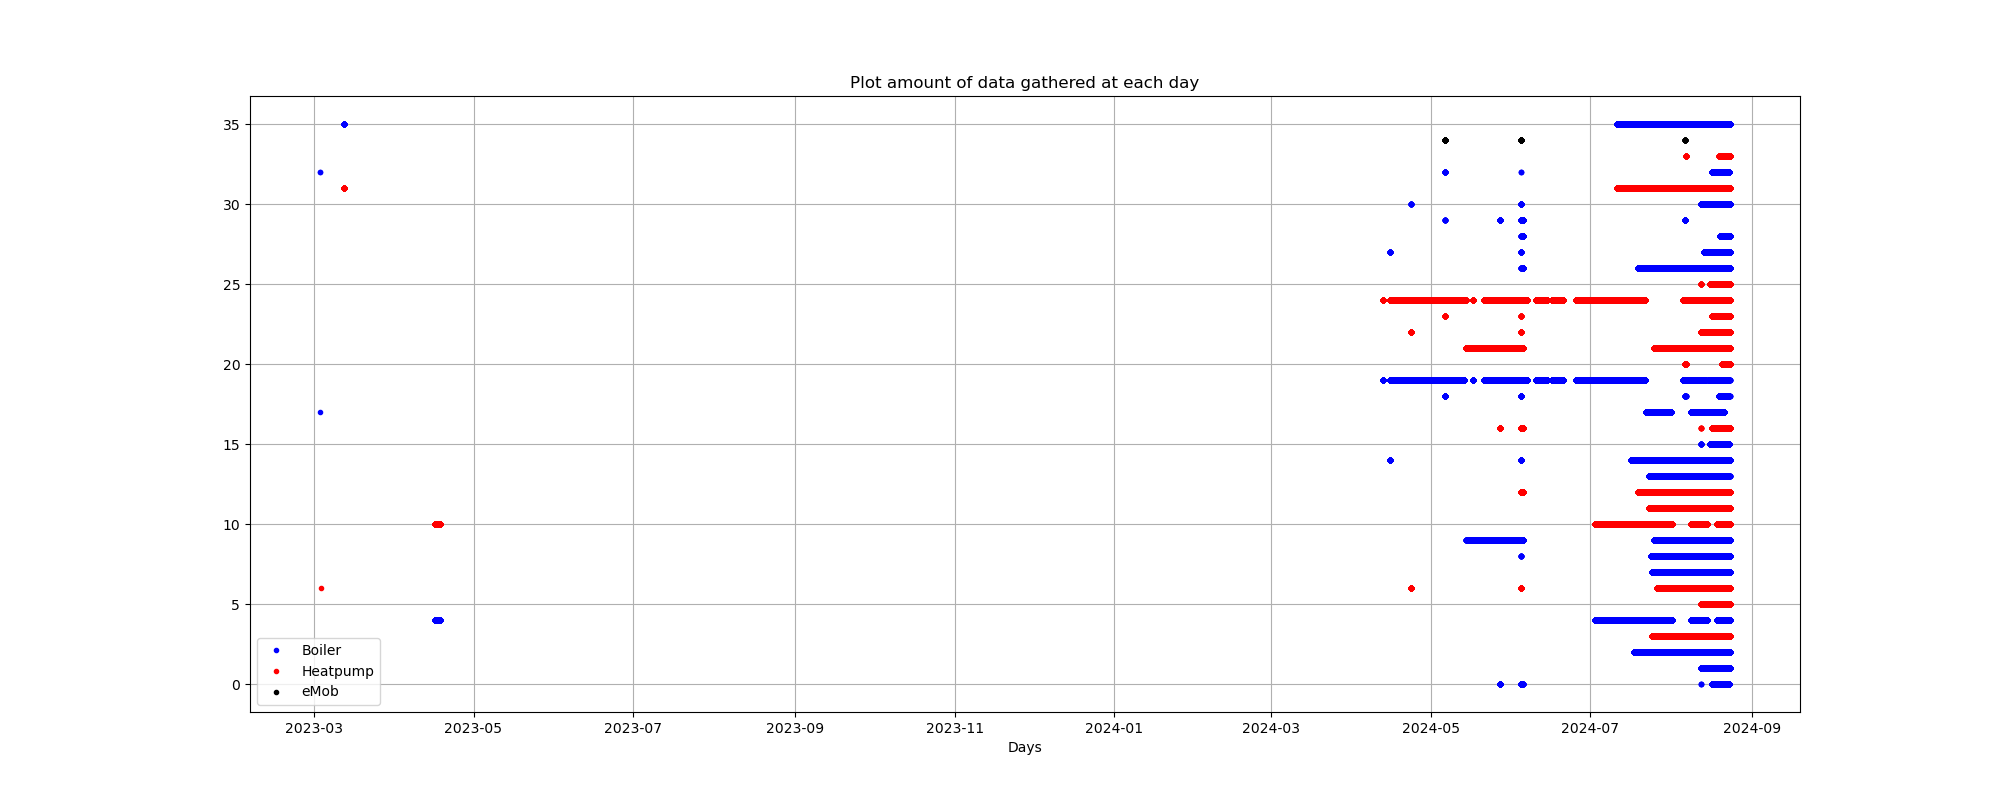
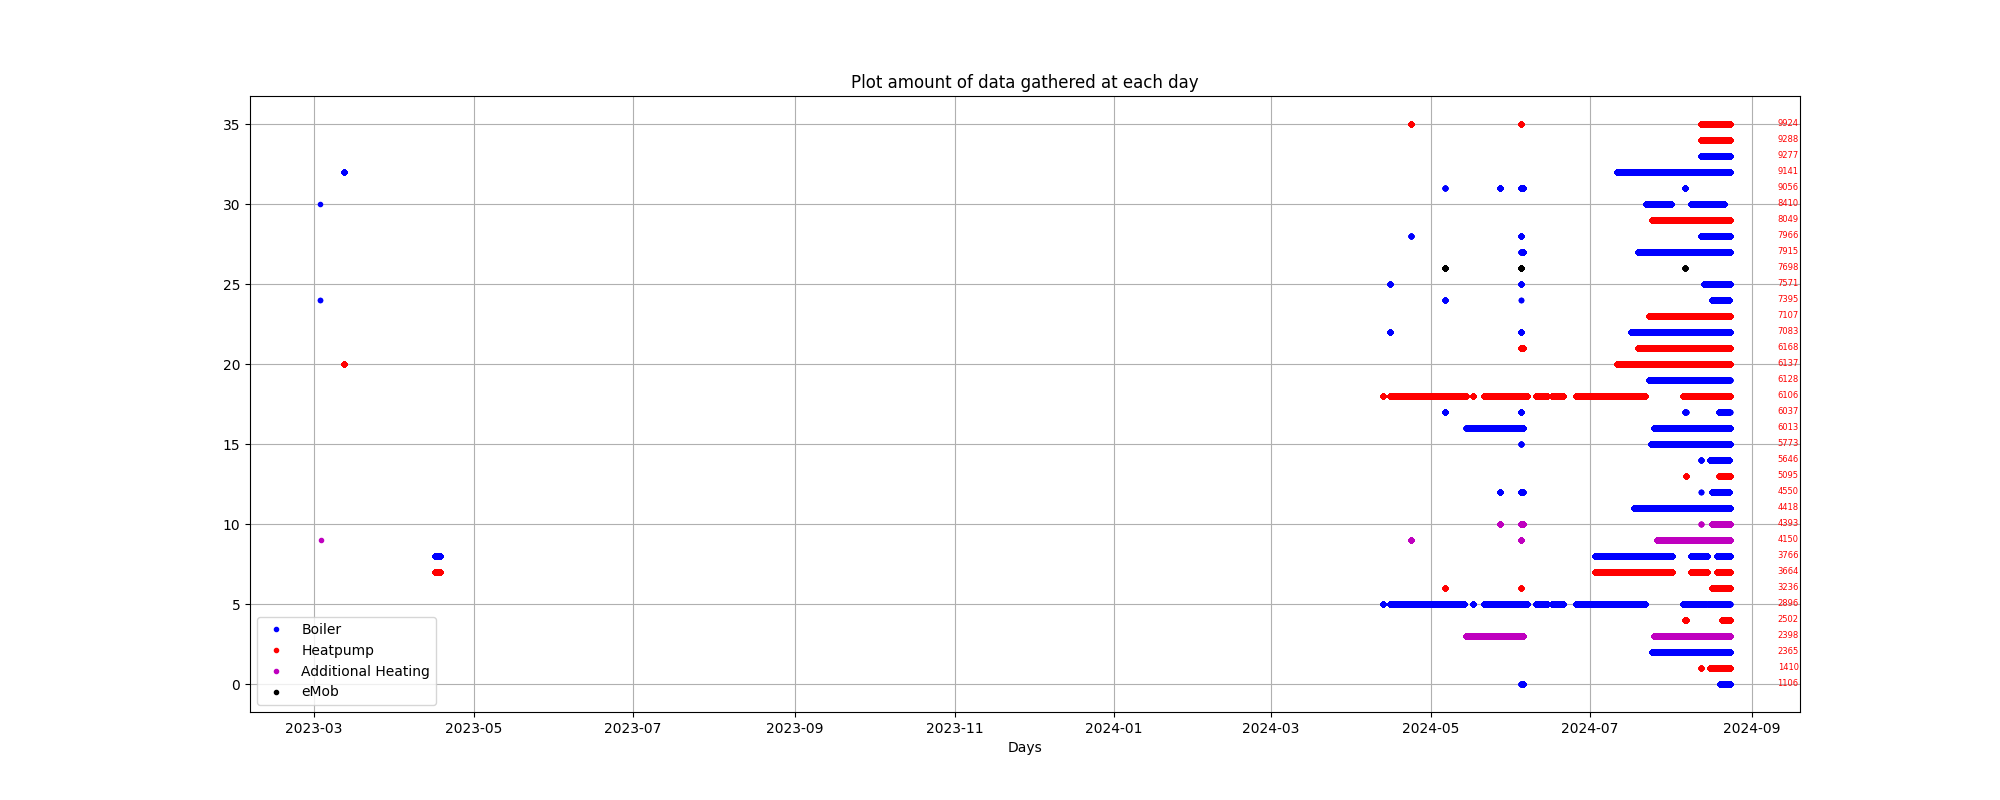
- split add.heating and heatpumps to two different datasets and add site number to plots

diff --git a/src/generate_overview.py b/src/generate_overview.py
@@ -8,6 +8,22 @@ import numpy as np
 import json
 import os
 from collections import OrderedDict
+import re
+
+
+def extract_four_digits(filename):
+    # Define the regex pattern to match exactly four digits before ".json"
+    pattern = r'(\d{4})'
+
+    # Use re.search to find the pattern in the filename
+    match = re.search(pattern, filename)
+
+    # Check if a match was found
+    if match:
+        # Extract and return the four-digit number
+        return int(match.group(1))
+    else:
+        return None
 
 
 def plot_distribution_from_results():
@@ -60,6 +76,8 @@ def get_filelist() -> list:
 def plot_directly_from_data():
     filelist = get_filelist()
     plt.figure(figsize=(20, 8))
+    IDs = dict()
+
     for i, file in enumerate(filelist):
         with open(file) as f:
             data = json.load(f)
@@ -73,18 +91,24 @@ def plot_directly_from_data():
         if type == "Boiler":
             color = "b"
             label = "Boiler"
-        elif type == "Heatpump" or type == "Add.Heating":
+        elif type == "Heatpump":
             color = "r"
             label = "Heatpump"
+        elif type == "Add.Heating":
+            color = "m"
+            label = "Additional Heating"
         else:
             color = "k"
             label = type
+
         x_values = [
             dt.datetime.strptime(x_value, "%Y-%m-%d %H:%M:%S") for x_value in x_values
         ]
+
         # choose following y_value to group values together which started arount the same time
         # y_values = np.ones(len(x_values)) * int(min(x_values).strftime('%M%d'))
         y_values = np.ones(len(x_values)) * i
+        IDs[i] = extract_four_digits(file)
         plt.plot(
             x_values, y_values, linestyle="None", marker=".", color=color, label=label
         )
@@ -93,15 +117,22 @@ def plot_directly_from_data():
     plt.xlabel("Days")
     plt.grid(True)
 
+    # plot additional information
+    x_lim = plt.gca().get_xlim()[1]
+
+    for height, value in IDs.items():
+        plt.text(x_lim - .5, height, str(value), fontsize=6, ha='right', va='center', color='red')
+
+
     # This trick removes multiple same labels
     handles, labels = plt.gca().get_legend_handles_labels()
     by_label = OrderedDict(zip(labels, handles))
     plt.legend(by_label.values(), by_label.keys())
 
     # plt.show()
-    plt.savefig("plots/data_distribution_from_data_original.png")
+    plt.savefig("../plots/data_distribution_from_data_original.png")
 
 
 if __name__ == "__main__":
-    plot_distribution_from_results()
-    # plot_directly_from_data()
+    # plot_distribution_from_results()
+    plot_directly_from_data()

diff --git a/src/cleanup_data.py b/src/cleanup_data.py
@@ -4,6 +4,13 @@ import tkinter as tk
 from tkinter import filedialog as fd
 import datetime as dt
 
+def rename_keys(data: dict):
+    new_dict = dict()
+    for key in data.keys():
+        values = list(data[key].values())
+        new_dict[key] = {str(i+1): value for i, value in enumerate(values)}
+    return new_dict
+
 
 def cleanup_json(original_path: str, cleaned_path: str, last_date: dt.datetime):
     keys = [
@@ -64,15 +71,45 @@ def cleanup_json(original_path: str, cleaned_path: str, last_date: dt.datetime):
         for key in data.keys():
             for key_to_delete in keys_to_delete:
                 data[key].pop(key_to_delete, None)
+
+
+    if type == "Heatpump" or type == "Add.Heating":
+        keys_heatpump = [
+            key for key, device in data["Device"].items() if device == "Heatpump"
+        ]
+        data_heatpump = dict()
+        for key in data.keys():
+            data_heatpump[key] = dict()
+
+        for key in data.keys():
+            for key_heatpump in keys_heatpump:
+                data_heatpump[key][key_heatpump] = data[key][key_heatpump]
+                data[key].pop(key_heatpump, None)
+
+
+        name, ending = cleaned_path.split('.', 1)
+        filename_heatpump = name + "_heatpump.json"
+        filename_add_heat = name + "_add_heat.json"
+        if data_heatpump["Device"]:
+            with open(filename_heatpump, "w") as f:
+                json_str = json.dumps(rename_keys(data_heatpump), indent=4)
+                f.write(json_str)
+
+        if data["Device"]:
+            with open(filename_add_heat, "w") as f:
+                json_str = json.dumps(rename_keys(data), indent=4)
+                f.write(json_str)
+        return
+
     with open(cleaned_path, "w") as f:
-        json_str = json.dumps(data, indent=4)
+        json_str = json.dumps(rename_keys(data), indent=4)
         f.write(json_str)
 
 
 def get_filelist() -> list:
     """
     Function to get a list of all json files one wants to include in an analysis.
-    You have to have already created a directory and included all neccesairy json files before calling this function.
+    You have to have already created a directory and included all necessary json files before calling this function.
     """
 
     root = tk.Tk()
